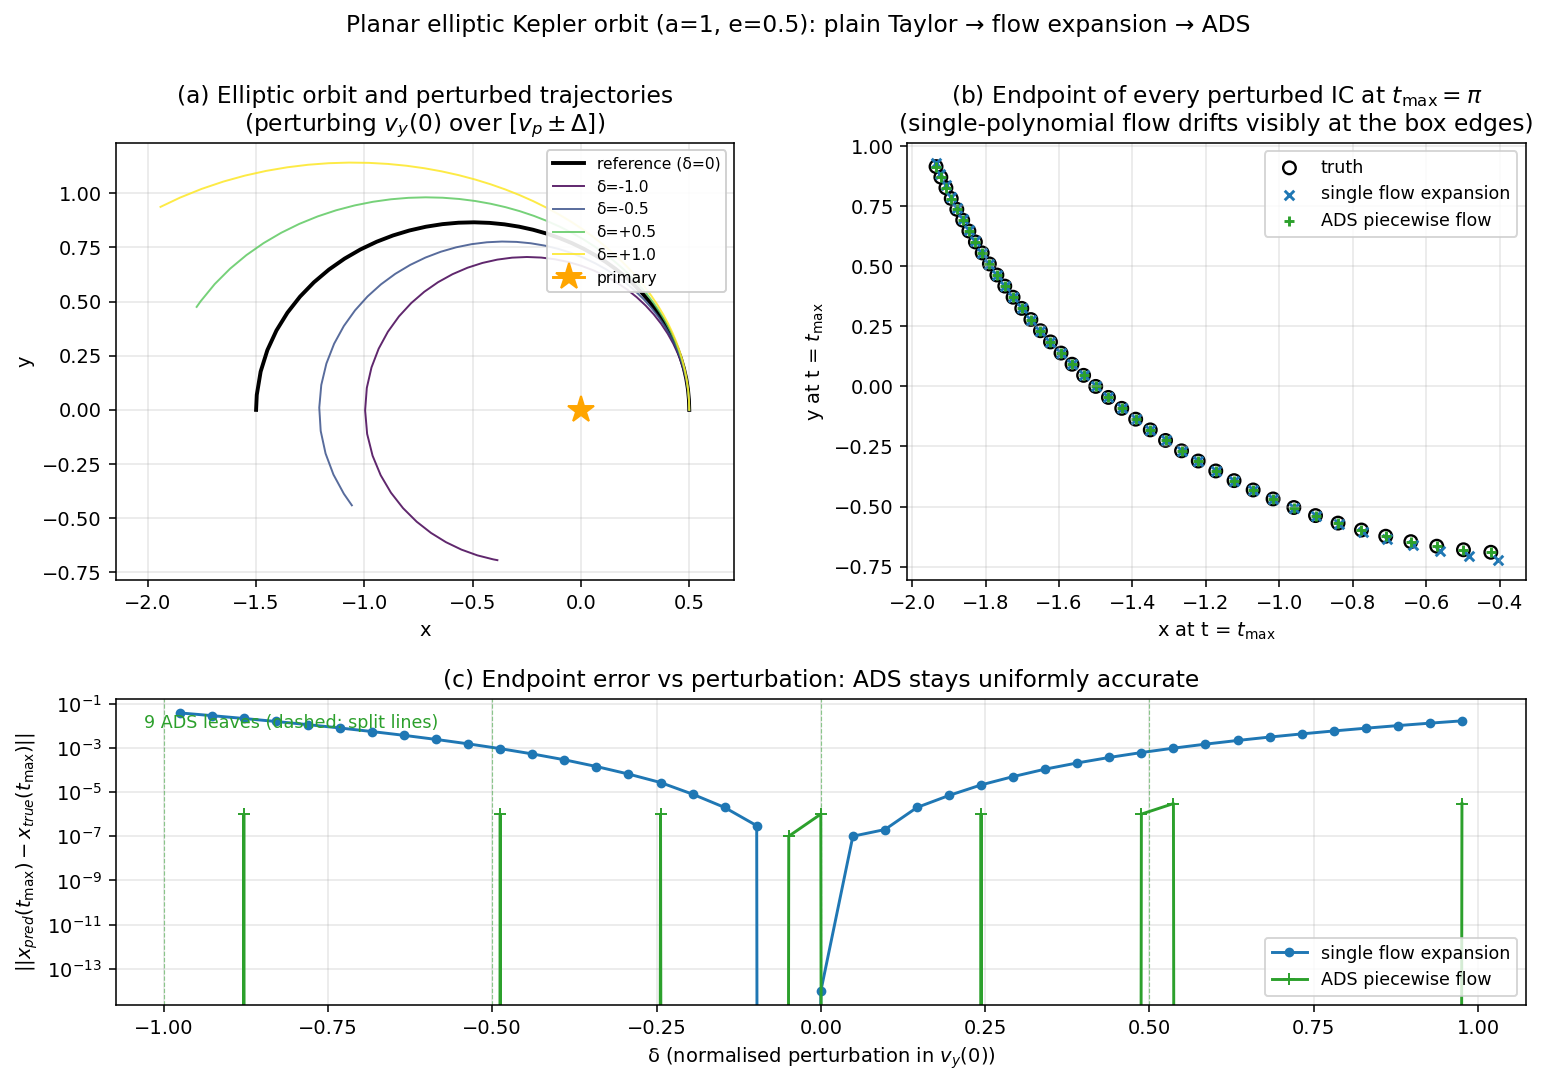
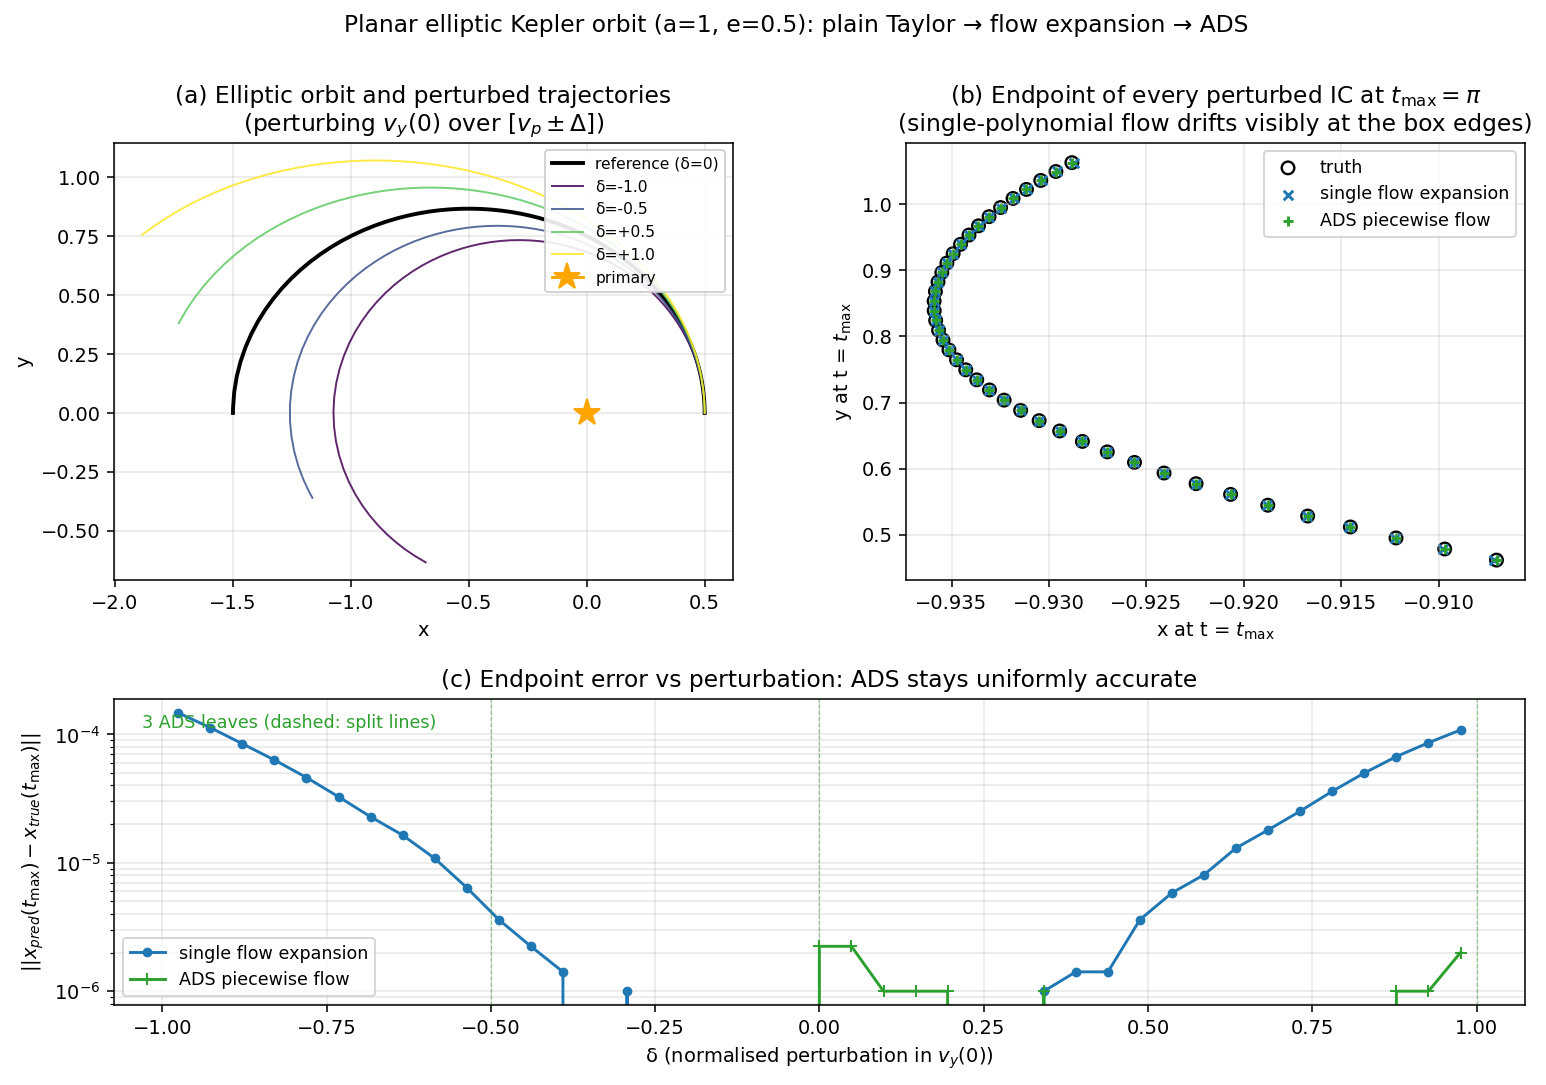
Add IC-box-pushed-forward visualisation to elliptic-orbit example
The classic ADS plot: take a 2-D box of initial conditions (perturb both
y(0) and v_y(0)) and propagate it through the planar Kepler dynamics for
a sequence of snapshot times.  At each time we run propagateBox() to get
a single multivariate-Taylor flow polynomial and integrateAds() to get a
piecewise version, then sample the unit-square boundary in normalised
δ ∈ [-1, 1]^2 — once globally for the single flow and once per leaf for
ADS.  The boundary samples form deformed quadrilaterals in the (x, y)
plane, showing how the IC box morphs as it advects along the orbit.

The new plotBoxEvolution.py renders these as filled polygons over the
reference orbit.  At early times one polygon suffices.  As the spread
grows the truncation tolerance is exceeded and ADS subdivides — visible
as multiple smaller patches tiling the same image set.  An IC-space
inset shows the corresponding 2-D δ-box partition.

Tuned the example parameters (kN=12, halfwidth=0.08 in 1-D, 2-D box
0.04×0.06, snapshot times π/8…π/2, ads_max_depth=5–6) to keep total
runtime under ~30 s while still producing meaningful splits at later
snapshots (1 → 3 → 4 → 6 leaves across the four times).

diff --git a/examples/plotBoxEvolution.py b/examples/plotBoxEvolution.py
@@ -1,0 +1,169 @@
+#!/usr/bin/env python3
+"""Plot the IC box pushed forward in time, ADS leaves vs single flow.
+
+Reads the snapshot CSVs written by ellipticOrbit and renders a 2-panel
+figure:
+
+    left  – ADS leaves at every snapshot time, overlaid on the reference
+            orbit.  At later times the box has spread enough that the
+            DA truncation tolerance is exceeded and ADS subdivides the
+            domain into several polynomial pieces (filled polygons).
+    right – single multivariate-Taylor flow polynomial at the same times
+            (one polygon per time), showing how a single polynomial would
+            try (and gradually fail) to capture the same image set.
+
+A small inset shows the ADS partition of the IC box at the latest
+snapshot — the rectangular tiles in normalised δ-space.
+"""
+
+from __future__ import annotations
+
+import argparse
+from pathlib import Path
+
+import matplotlib.patches as patches
+import matplotlib.pyplot as plt
+import numpy as np
+
+
+def _load(path: Path) -> np.ndarray:
+    return np.genfromtxt(path, delimiter=",", names=True)
+
+
+def main() -> None:
+    parser = argparse.ArgumentParser()
+    parser.add_argument(
+        "--data-dir",
+        type=Path,
+        default=Path(__file__).resolve().parent / "output",
+    )
+    parser.add_argument(
+        "--output",
+        type=Path,
+        default=None,
+        help="Output PNG (default: <script-dir>/ellipticBoxEvolution.png)",
+    )
+    args = parser.parse_args()
+
+    out_path = args.output or Path(__file__).resolve().parent / "ellipticBoxEvolution.png"
+
+    ref = _load(args.data_dir / "orbit_reference.csv")
+    ads_box = _load(args.data_dir / "ads_box_snapshots.csv")
+    flow_box = _load(args.data_dir / "flow_box_snapshots.csv")
+    leaves_ic = _load(args.data_dir / "ads_box_leaves.csv")
+
+    snapshots = sorted(set(ads_box["snapshot"].astype(int).tolist()))
+    n_snap = len(snapshots)
+
+    # One snapshot time per snapshot index.
+    snap_t = {s: float(ads_box["t"][ads_box["snapshot"] == s][0]) for s in snapshots}
+
+    fig, (ax_ads, ax_flow) = plt.subplots(1, 2, figsize=(13.5, 6.5),
+                                           constrained_layout=True)
+
+    # ---------- Common axis range ----------
+    all_x = np.concatenate([ref["x"], ads_box["x"], flow_box["x"]])
+    all_y = np.concatenate([ref["y"], ads_box["y"], flow_box["y"]])
+    pad_x = 0.05 * (all_x.max() - all_x.min())
+    pad_y = 0.05 * (all_y.max() - all_y.min())
+    xlim = (all_x.min() - pad_x, all_x.max() + pad_x)
+    ylim = (all_y.min() - pad_y, all_y.max() + pad_y)
+
+    # Snapshot color map (time → colour).
+    snap_cmap = plt.get_cmap("plasma")
+    snap_colors = [snap_cmap(0.15 + 0.7 * i / max(n_snap - 1, 1)) for i in range(n_snap)]
+
+    # ---------- Left: ADS ----------
+    ax_ads.plot(ref["x"], ref["y"], "k-", lw=1.0, alpha=0.5, label="reference orbit")
+    ax_ads.plot([0.0], [0.0], "*", color="orange", ms=14, zorder=5, label="primary")
+    ax_ads.plot(ref["x"][0], ref["y"][0], "ko", ms=5,
+                markerfacecolor="white", zorder=5,
+                label="initial state (centre)")
+
+    for col, snap in enumerate(snapshots):
+        m = ads_box["snapshot"] == snap
+        leaf_ids = sorted(set(ads_box["leaf_idx"][m].astype(int).tolist()))
+        for li in leaf_ids:
+            sel = m & (ads_box["leaf_idx"] == li)
+            order = np.argsort(ads_box["sample_idx"][sel])
+            xs = ads_box["x"][sel][order]
+            ys = ads_box["y"][sel][order]
+            ax_ads.fill(xs, ys, alpha=0.55, color=snap_colors[col],
+                        edgecolor="black", linewidth=0.5)
+        # Add a label for each snapshot time once
+        ax_ads.fill([], [], color=snap_colors[col], alpha=0.55,
+                    label=f"t = {snap_t[snap]:.3f}  ({len(leaf_ids)} leaves)")
+
+    ax_ads.set_xlim(xlim)
+    ax_ads.set_ylim(ylim)
+    ax_ads.set_aspect("equal", adjustable="box")
+    ax_ads.set_xlabel("x(t)")
+    ax_ads.set_ylabel("y(t)")
+    ax_ads.set_title("ADS: piecewise polynomial flow\n"
+                     "(IC box partitioned, each leaf shown as a filled patch)")
+    ax_ads.grid(True, alpha=0.25)
+    ax_ads.legend(loc="upper right", fontsize=8, framealpha=0.95)
+
+    # ---------- Right: single flow ----------
+    ax_flow.plot(ref["x"], ref["y"], "k-", lw=1.0, alpha=0.5, label="reference orbit")
+    ax_flow.plot([0.0], [0.0], "*", color="orange", ms=14, zorder=5, label="primary")
+    ax_flow.plot(ref["x"][0], ref["y"][0], "ko", ms=5,
+                 markerfacecolor="white", zorder=5,
+                 label="initial state (centre)")
+
+    for col, snap in enumerate(snapshots):
+        m = flow_box["snapshot"] == snap
+        order = np.argsort(flow_box["sample_idx"][m])
+        xs = flow_box["x"][m][order]
+        ys = flow_box["y"][m][order]
+        ax_flow.fill(xs, ys, alpha=0.55, color=snap_colors[col],
+                     edgecolor="black", linewidth=0.5,
+                     label=f"t = {snap_t[snap]:.3f}")
+
+    ax_flow.set_xlim(xlim)
+    ax_flow.set_ylim(ylim)
+    ax_flow.set_aspect("equal", adjustable="box")
+    ax_flow.set_xlabel("x(t)")
+    ax_flow.set_ylabel("y(t)")
+    ax_flow.set_title("Single multivariate-Taylor flow polynomial\n"
+                      "(one polygon per time; shape is the polynomial image of the IC box)")
+    ax_flow.grid(True, alpha=0.25)
+    ax_flow.legend(loc="upper right", fontsize=8, framealpha=0.95)
+
+    # ---------- Inset: IC-space splits at latest snapshot ----------
+    last_snap = snapshots[-1]
+    sel = leaves_ic["snapshot"] == last_snap
+    inset_w, inset_h = 0.11, 0.22
+    ax_ic = fig.add_axes([0.305, 0.18, inset_w, inset_h])
+    ax_ic.add_patch(patches.Rectangle((-1, -1), 2, 2, fill=False, ec="black", lw=1.4))
+    leaf_cmap = plt.get_cmap("tab20")
+    for li, dy_lo, dy_hi, dvy_lo, dvy_hi in zip(
+        leaves_ic["leaf_idx"][sel].astype(int),
+        leaves_ic["dy_lo"][sel],
+        leaves_ic["dy_hi"][sel],
+        leaves_ic["dvy_lo"][sel],
+        leaves_ic["dvy_hi"][sel],
+    ):
+        ax_ic.add_patch(patches.Rectangle(
+            (dy_lo, dvy_lo), dy_hi - dy_lo, dvy_hi - dvy_lo,
+            facecolor=leaf_cmap((int(li) * 3) % 20), edgecolor="black",
+            linewidth=0.6, alpha=0.55))
+    ax_ic.set_xlim(-1.05, 1.05)
+    ax_ic.set_ylim(-1.05, 1.05)
+    ax_ic.set_aspect("equal", adjustable="box")
+    ax_ic.set_xlabel(r"$\delta_{y_0}$", fontsize=8)
+    ax_ic.set_ylabel(r"$\delta_{v_{y0}}$", fontsize=8)
+    ax_ic.set_title(f"IC partition\n(t = {snap_t[last_snap]:.3f})", fontsize=8)
+    ax_ic.tick_params(labelsize=7)
+
+    fig.suptitle(
+        "IC box pushed forward in time — Kepler orbit (a=1, e=0.5)",
+        fontsize=12,
+    )
+
+    fig.savefig(out_path, dpi=140, bbox_inches="tight")
+    print(f"Wrote {out_path}")
+
+
+if __name__ == "__main__":
+    main()

diff --git a/examples/ellipticOrbit.cpp b/examples/ellipticOrbit.cpp
@@ -13,12 +13,22 @@
 //      flow map.
 //
 // All three runs share the same right-hand side and the same final time.  The
-// program writes four CSV files consumed by the companion plotting script:
+// program writes the following CSV files consumed by the companion plotting
+// scripts:
 //
 //   orbit_reference.csv     — reference trajectory (t, x, y, vx, vy)
 //   orbits_perturbed.csv    — a handful of perturbed trajectories
 //   endpoint_compare.csv    — endpoint of every method at tmax across δ ∈ [-1,1]
-//   ads_leaves.csv          — sub-domain bounds of each ADS leaf
+//   ads_leaves.csv          — sub-domain bounds of each 1-D ADS leaf
+//   ads_box_snapshots.csv   — boundary of each ADS leaf at each snapshot time
+//   flow_box_snapshots.csv  — boundary of the single-flow polygon at each
+//                             snapshot time
+//   ads_box_leaves.csv      — IC-space bounds of every ADS leaf at each snapshot
+//
+// Companion scripts:
+//   plotEllipticOrbit.py     — orbit, endpoint scatter, error-vs-δ figure
+//   plotBoxEvolution.py      — ADS leaves vs single-flow polygon at each
+//                              snapshot time (the "box pushed forward" plot)
 // =============================================================================
 
 #include <array>
@@ -36,7 +46,7 @@ using namespace tax;
 namespace
 {
 
-constexpr int kN = 14;  ///< Taylor expansion order in time.
+constexpr int kN = 12;  ///< Taylor expansion order in time.
 constexpr int kP = 4;   ///< DA expansion order in initial conditions.
 constexpr int kD = 4;   ///< 2 position + 2 velocity components.
 
@@ -66,7 +76,8 @@ int main()
     constexpr double e    = 0.5;
     const double     rp   = a * ( 1.0 - e );
     const double     vp   = std::sqrt( ( 1.0 + e ) / ( 1.0 - e ) );
-    const double     tmax = std::numbers::pi;  // periapsis → apoapsis (half period)
+    const double     tmax_orbit = std::numbers::pi;       // periapsis → apoapsis
+    const double     tmax       = 0.5 * std::numbers::pi; // DA work uses quarter orbit
 
     Eigen::Vector< double, kD > x0;
     x0 << rp, 0.0, 0.0, vp;
@@ -74,7 +85,7 @@ int main()
     // -------------------------------------------------------------------------
     // 1) Plain Taylor integration of the reference orbit.
     // -------------------------------------------------------------------------
-    auto sol = ode::integrate< kN >( kepler, x0, 0.0, tmax, 1e-16 );
+    auto sol = ode::integrate< kN >( kepler, x0, 0.0, tmax_orbit, 1e-16 );
     {
         std::ofstream out( "orbit_reference.csv" );
         out << "t,x,y,vx,vy\n";
@@ -90,7 +101,7 @@ int main()
     // The box is large enough that a single Taylor flow visibly degrades by
     // tmax (one full period), motivating the ADS split.
     // -------------------------------------------------------------------------
-    Box< double, kD > box{ { rp, 0.0, 0.0, vp }, { 0.0, 0.0, 0.0, 0.10 } };
+    Box< double, kD > box{ { rp, 0.0, 0.0, vp }, { 0.0, 0.0, 0.0, 0.08 } };
 
     // -------------------------------------------------------------------------
     // 2) Single flow expansion (propagateBox, no splitting).
@@ -103,7 +114,7 @@ int main()
     // -------------------------------------------------------------------------
     constexpr double ads_tol = 1e-4;
     auto             tree    = ode::integrateAds< kN, kP >( kepler, box, 0.0, tmax, 1e-14, ads_tol,
-                                                            12 );
+                                                            6 );
     std::cout << "ADS:                  " << tree.numDone() << " leaves (tol = " << ads_tol << ")\n";
 
     // -------------------------------------------------------------------------
@@ -195,7 +206,7 @@ int main()
     {
         Eigen::Vector< double, kD > x0p;
         x0p << rp, 0.0, 0.0, vp + box.halfWidth[3] * d;
-        auto sp = ode::integrate< kN >( kepler, x0p, 0.0, tmax, 1e-16 );
+        auto sp = ode::integrate< kN >( kepler, x0p, 0.0, tmax_orbit, 1e-16 );
         for ( std::size_t i = 0; i < sp.t.size(); ++i )
             traj << d << ',' << sp.t[i] << ',' << sp.x[i]( 0 ) << ',' << sp.x[i]( 1 ) << '\n';
     }
@@ -213,7 +224,100 @@ int main()
         lf << li << ',' << lo << ',' << hi << '\n';
     }
 
-    std::cout << "Wrote: orbit_reference.csv, orbits_perturbed.csv, "
-                 "endpoint_compare.csv, ads_leaves.csv\n";
+    // -------------------------------------------------------------------------
+    // 2-D IC box pushed forward in time: the classic ADS visualisation.
+    //
+    // Perturb both y(0) and v_y(0) about the periapsis IC.  At a handful of
+    // snapshot times we run propagateBox (single polynomial) and integrateAds
+    // (piecewise) and sample the boundary of the unit square in normalised
+    // δ ∈ [-1, 1]^2.  Mapping that boundary through each leaf's polynomial
+    // gives a deformed quadrilateral in the (x, y) plane: the original IC box
+    // pushed forward to the snapshot time, partitioned into ADS leaves.
+    // -------------------------------------------------------------------------
+    Box< double, kD > box2D{ { rp, 0.0, 0.0, vp }, { 0.0, 0.04, 0.0, 0.06 } };
+
+    const std::vector< double > snapshots = { 0.125 * std::numbers::pi,
+                                              0.250 * std::numbers::pi,
+                                              0.375 * std::numbers::pi,
+                                              0.500 * std::numbers::pi };
+
+    constexpr int n_per_edge = 24;  ///< boundary samples per side of the unit square
+
+    auto unit_square_boundary = []( int n ) {
+        std::vector< std::array< double, 2 > > pts;
+        pts.reserve( std::size_t( 4 * n + 1 ) );
+        for ( int e = 0; e < 4; ++e )
+            for ( int i = 0; i < n; ++i )
+            {
+                const double s = double( i ) / double( n );
+                double       dy = 0.0, dvy = 0.0;
+                switch ( e )
+                {
+                case 0: dy = -1.0 + 2.0 * s; dvy = +1.0; break;            // top
+                case 1: dy = +1.0; dvy = +1.0 - 2.0 * s; break;            // right
+                case 2: dy = +1.0 - 2.0 * s; dvy = -1.0; break;            // bottom
+                case 3: dy = -1.0; dvy = -1.0 + 2.0 * s; break;            // left
+                }
+                pts.push_back( { dy, dvy } );
+            }
+        pts.push_back( pts.front() );  // close the loop
+        return pts;
+    };
+
+    const auto bnd = unit_square_boundary( n_per_edge );
+
+    std::ofstream sf( "ads_box_snapshots.csv" );
+    sf << "snapshot,t,leaf_idx,sample_idx,x,y\n";
+    std::ofstream sff( "flow_box_snapshots.csv" );
+    sff << "snapshot,t,sample_idx,x,y\n";
+    std::ofstream sfl( "ads_box_leaves.csv" );
+    sfl << "snapshot,t,leaf_idx,dy_lo,dy_hi,dvy_lo,dvy_hi\n";
+
+    for ( std::size_t s = 0; s < snapshots.size(); ++s )
+    {
+        const double t_snap = snapshots[s];
+
+        auto tree2 = ode::integrateAds< kN, kP >( kepler, box2D, 0.0, t_snap, 1e-13, 1e-4, 5 );
+        auto flow2 = ode::propagateBox< kN, kP, kD >( kepler, box2D, 0.0, t_snap, 1e-14 );
+
+        std::cout << "Snapshot t = " << t_snap << ":  ADS leaves = " << tree2.numDone() << '\n';
+
+        // ADS: sample the unit-square boundary in each leaf's local δ.
+        for ( int li : tree2.doneLeaves() )
+        {
+            const auto& leaf = tree2.node( li ).leaf();
+            for ( std::size_t i = 0; i < bnd.size(); ++i )
+            {
+                const std::array< double, kD > d{ 0.0, bnd[i][0], 0.0, bnd[i][1] };
+                const double                   x = leaf.tte.state( 0 ).eval( d );
+                const double                   y = leaf.tte.state( 1 ).eval( d );
+                sf << s << ',' << t_snap << ',' << li << ',' << i << ',' << x << ',' << y << '\n';
+            }
+            // Leaf bounds in the original normalised δ-space (for the IC-side panel).
+            const double dy_lo = ( ( leaf.box.center[1] - leaf.box.halfWidth[1] ) -
+                                   box2D.center[1] ) / box2D.halfWidth[1];
+            const double dy_hi = ( ( leaf.box.center[1] + leaf.box.halfWidth[1] ) -
+                                   box2D.center[1] ) / box2D.halfWidth[1];
+            const double dvy_lo = ( ( leaf.box.center[3] - leaf.box.halfWidth[3] ) -
+                                    box2D.center[3] ) / box2D.halfWidth[3];
+            const double dvy_hi = ( ( leaf.box.center[3] + leaf.box.halfWidth[3] ) -
+                                    box2D.center[3] ) / box2D.halfWidth[3];
+            sfl << s << ',' << t_snap << ',' << li << ',' << dy_lo << ',' << dy_hi << ','
+                << dvy_lo << ',' << dvy_hi << '\n';
+        }
+
+        // Single flow: sample the unit-square boundary in box2D-relative δ.
+        for ( std::size_t i = 0; i < bnd.size(); ++i )
+        {
+            const std::array< double, kD > d{ 0.0, bnd[i][0], 0.0, bnd[i][1] };
+            const double                   x = flow2( 0 ).eval( d );
+            const double                   y = flow2( 1 ).eval( d );
+            sff << s << ',' << t_snap << ',' << i << ',' << x << ',' << y << '\n';
+        }
+    }
+
+    std::cout << "Wrote: orbit_reference.csv, orbits_perturbed.csv, endpoint_compare.csv,\n"
+              << "       ads_leaves.csv, ads_box_snapshots.csv, flow_box_snapshots.csv,\n"
+              << "       ads_box_leaves.csv\n";
     return 0;
 }

diff --git a/examples/plotEllipticOrbit.py b/examples/plotEllipticOrbit.py
@@ -101,10 +101,15 @@ def main() -> None:
     ax_err.semilogy(cmp_["delta"], err_ads, "+-", color="tab:green", ms=6,
                     label="ADS piecewise flow")
 
-    # Annotate ADS sub-domain boundaries on the δ-axis
-    centre = 0.5 * (leaves["vy_lo"][0] + leaves["vy_hi"][-1])
-    half = 0.5 * (leaves["vy_hi"][-1] - leaves["vy_lo"][0])
-    boundaries = sorted(set(list(leaves["vy_lo"]) + list(leaves["vy_hi"])))
+    # Annotate ADS sub-domain boundaries on the δ-axis (use min/max across all leaves
+    # because tree.doneLeaves() returns leaves in arena order, not sorted by bound).
+    vy_lo_all = leaves["vy_lo"]
+    vy_hi_all = leaves["vy_hi"]
+    vy_min = float(np.min(vy_lo_all))
+    vy_max = float(np.max(vy_hi_all))
+    centre = 0.5 * (vy_min + vy_max)
+    half = 0.5 * (vy_max - vy_min)
+    boundaries = sorted(set(list(vy_lo_all) + list(vy_hi_all)))
     for vy_b in boundaries:
         d_b = (vy_b - centre) / half
         if -1.0 < d_b < 1.0: